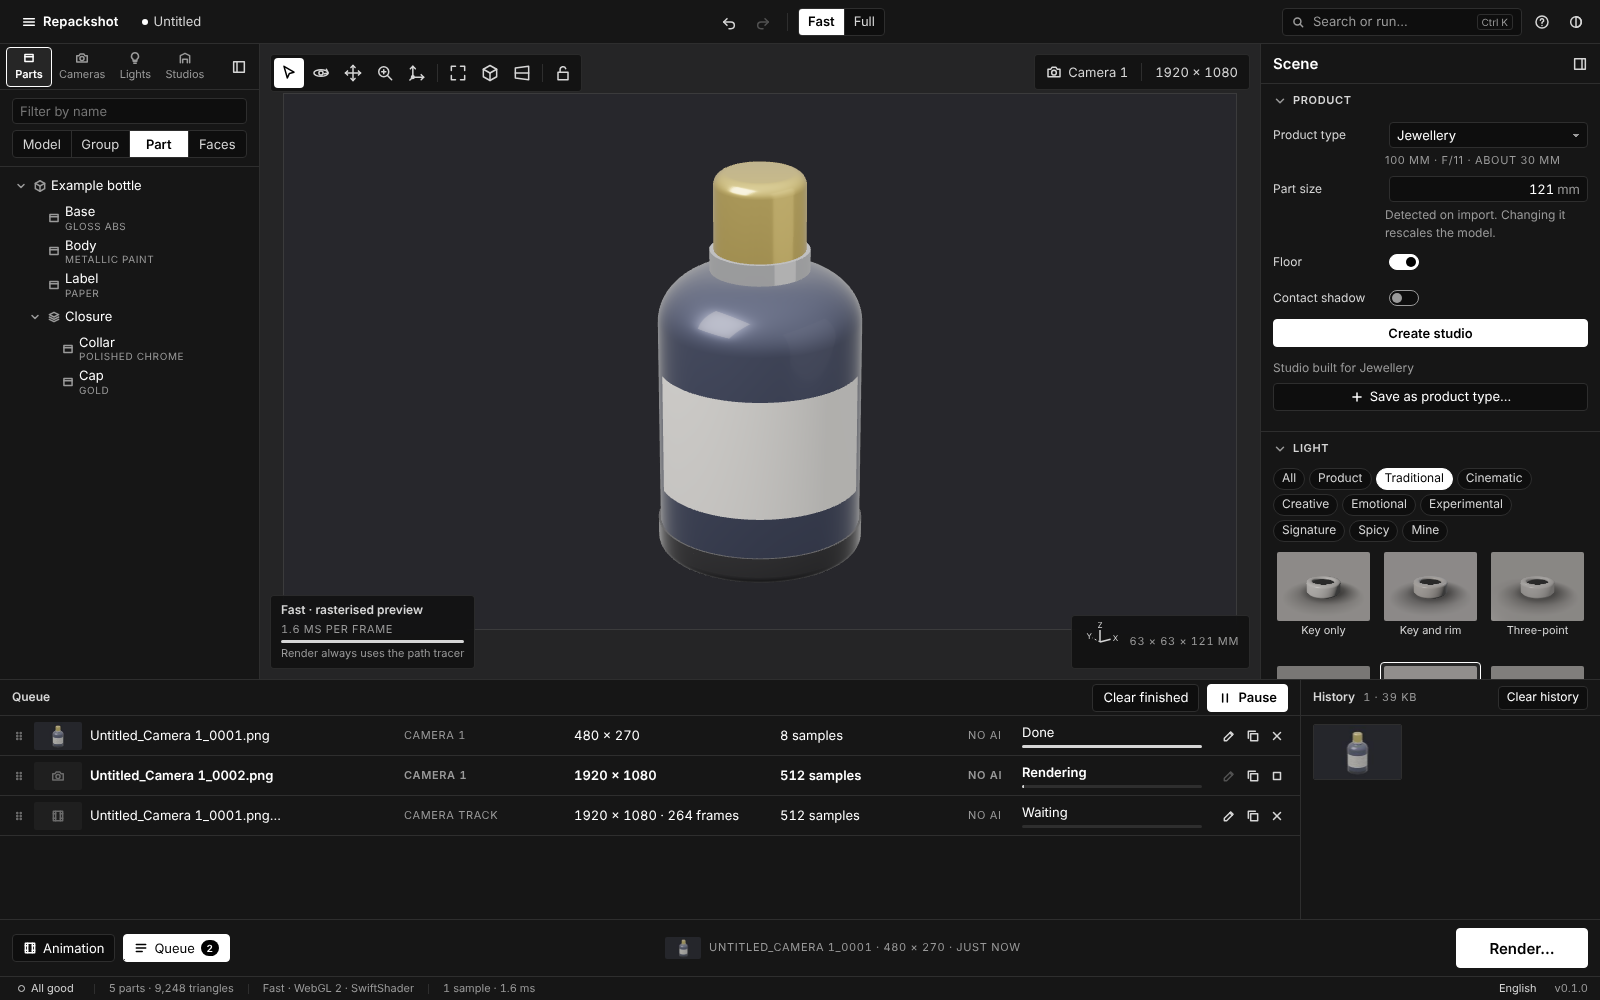
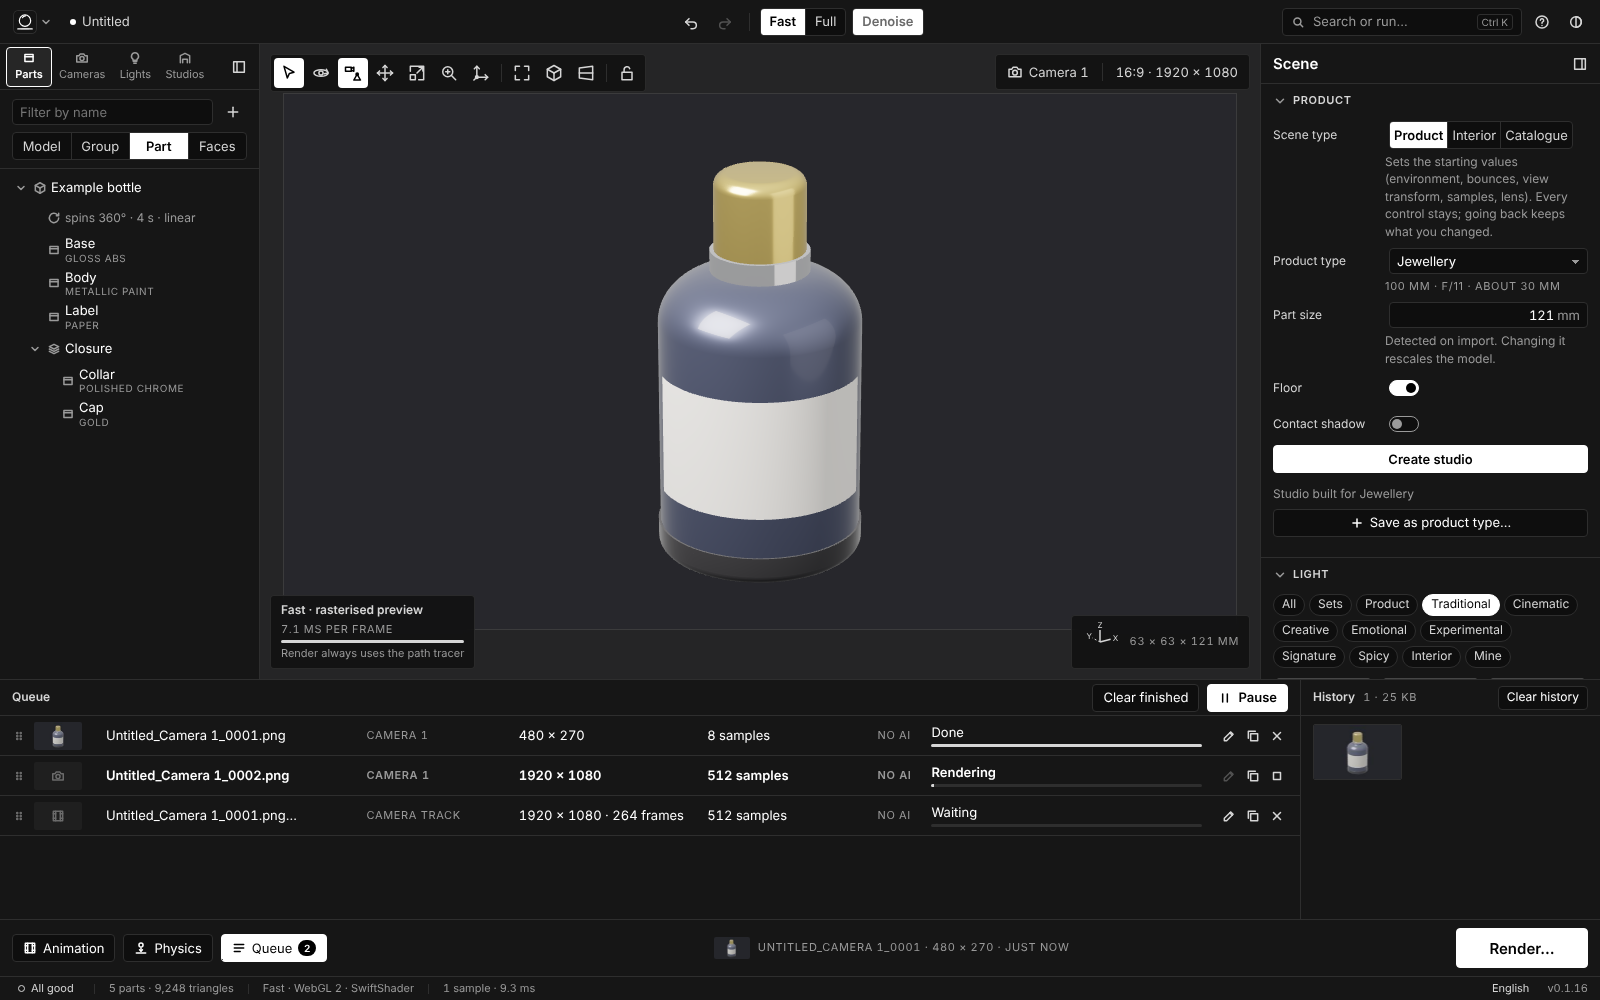
render-window-check: wait for the results viewer instead of racing it; re-record the U5 captures
Step (g) timed out in roughly one run in six, also on main before N1. The
tool pressed Esc right after the JPEG download started (and after the third
frame of the sequence), but the results viewer opens only when the job is
done. An Esc sent before that reached the scene and deselected the Body (Esc
deselects, UI.md 2.3), and the viewer opened anyway. In (g), Copper with
nothing selected asks "Replace all" inline in the palette, which is modal and
stays open, so Ctrl+Shift+Enter answered that prompt instead of rendering and
the wait for the second result ran out. The UI behaves as documented; the
tool's flow was racy.

The tool now waits for .rv[data-ready="1"] before closing the viewer (and for
it to go), checks that only the Body is selected, that the palette closed and
the Body shows Copper, and that Ctrl+Shift+Enter queued a job, so a failure
says why within seconds instead of after 240 s. Forcing the early Esc on the
old flow fails (g) every time; on the new flow it stops at the selection check.

Re-recorded with today's UI (they were still the U5 ones): render-window-
animation.png (Video is no longer "proximamente"), render-window-image.png,
queue-drawer.png and results-split.png. GALERIA marks them "regrabada en Sin
publicar" and corrects the two descriptions that changed; the N1 note in the
ROADMAP that called this a known failure says it is resolved; CHANGELOG gets a
Sin publicar section with one line under Herramientas.
[…]

diff --git a/docs/GALERIA.md b/docs/GALERIA.md
@@ -26,7 +26,7 @@ De la más nueva a la más antigua: 17 versiones, 14 con capturas nuevas; las ca
 
 ### Sin publicar
 
-Nada todavía: todas las capturas de `docs/ui/` están ya en una versión publicada (la última es v0.1.16).
+Ninguna captura nueva: todas las de `docs/ui/` están ya en una versión publicada (la última es v0.1.16). Regrabadas aquí, sin cambiar de sitio: las cuatro de la ventana de render y la cola de U5 (`render-window-image.png`, `render-window-animation.png`, `queue-drawer.png` y `results-split.png`), con la interfaz de hoy.
 
 ### v0.1.16 · 2026-10-17
 
@@ -507,17 +507,17 @@ La primera versión: interfaz, importadores, motor en Rust con modos Rápido y C
 
 #### U5 · Ventana de render y visor de resultados
 
-<a id="c-render-window-image"></a><img src="ui/render-window-image.png" width="480" alt="La ventana de Render, pestaña Imagen: nombre con plantilla, carpeta, formato (PNG, JPEG, EXR), tamaño en píxeles o en impresión y calidad por muestras."><br>
-`render-window-image.png` · `3ccbb2f` · La ventana de Render, pestaña Imagen: nombre con plantilla, carpeta, formato (PNG, JPEG, EXR), tamaño en píxeles o en impresión y calidad por muestras.
+<a id="c-render-window-image"></a><img src="ui/render-window-image.png" width="480" alt="La ventana de Render, pestaña Imagen: nombre con plantilla, carpeta, formato (PNG, JPEG, EXR, TIFF, RAW), tamaño en píxeles o en impresión y calidad por muestras."><br>
+`render-window-image.png` · `3ccbb2f` · La ventana de Render, pestaña Imagen: nombre con plantilla, carpeta, formato (PNG, JPEG, EXR, TIFF, RAW), tamaño en píxeles o en impresión y calidad por muestras. *(regrabada en Sin publicar)*
 
-<a id="c-render-window-animation"></a><img src="ui/render-window-animation.png" width="480" alt="La ventana de Render, pestaña Animación: rango, fotogramas por segundo, salida en secuencia de fotogramas (el vídeo, «próximamente») y tamaño de fotograma."><br>
-`render-window-animation.png` · `3ccbb2f` · La ventana de Render, pestaña Animación: rango, fotogramas por segundo, salida en secuencia de fotogramas (el vídeo, «próximamente») y tamaño de fotograma.
+<a id="c-render-window-animation"></a><img src="ui/render-window-animation.png" width="480" alt="La ventana de Render, pestaña Animación: rango, fotogramas por segundo, salida en vídeo o en secuencia de fotogramas (el vídeo ya no es «próximamente») y tamaño de fotograma."><br>
+`render-window-animation.png` · `3ccbb2f` · La ventana de Render, pestaña Animación: rango, fotogramas por segundo, salida en vídeo o en secuencia de fotogramas (el vídeo ya no es «próximamente») y tamaño de fotograma. *(regrabada en Sin publicar)*
 
 <a id="c-queue-drawer"></a><img src="ui/queue-drawer.png" width="480" alt="El cajón de la cola con tres trabajos (hecho, renderizando y en espera; uno es una pista de cámara) y el historial de resultados."><br>
-`queue-drawer.png` · `3ccbb2f` · El cajón de la cola con tres trabajos (hecho, renderizando y en espera; uno es una pista de cámara) y el historial de resultados.
+`queue-drawer.png` · `3ccbb2f` · El cajón de la cola con tres trabajos (hecho, renderizando y en espera; uno es una pista de cámara) y el historial de resultados. *(regrabada en Sin publicar)*
 
 <a id="c-results-split"></a><img src="ui/results-split.png" width="480" alt="El visor de resultados comparando dos renders con el divisor (cobre contra pintura metalizada), con zoom, datos y Guardar de nuevo."><br>
-`results-split.png` · `3ccbb2f` · El visor de resultados comparando dos renders con el divisor (cobre contra pintura metalizada), con zoom, datos y Guardar de nuevo.
+`results-split.png` · `3ccbb2f` · El visor de resultados comparando dos renders con el divisor (cobre contra pintura metalizada), con zoom, datos y Guardar de nuevo. *(regrabada en Sin publicar)*
 
 #### I2 · STEP e IGES
 

diff --git a/docs/ROADMAP.md b/docs/ROADMAP.md
@@ -6846,6 +6846,14 @@ ignoradas), como antes.
   no se toca aquí. Por eso `render-window-animation.png` (U5) no se ha regrabado y
   sigue enseñando el vídeo como *próximamente*; lo de ahora está en
   `render-window-video.png`.
+  *Resuelto después, fuera de esta fase*: el fallo era de la herramienta, no de la
+  interfaz. Cerraba el visor de resultados con Esc nada más empezar la descarga del
+  JPEG, antes de que el trabajo terminase y el visor abriera; ese Esc llegaba a la
+  escena y deseleccionaba el cuerpo (`Esc` deselecciona, UI §2.3), así que *Copper* pedía
+  *Sustituir todos* dentro de la paleta, que seguía abierta (es modal) y se tragaba
+  Ctrl+Mayús+Intro. Pasaba o no según el momento. La herramienta espera ahora al visor,
+  comprueba la selección y que la paleta se cierre, y `render-window-animation.png` y las
+  otras tres capturas de U5 se regrabaron.
 - **La regla de la línea de tiempo** no es un `slider`: está dentro del árbol, que
   solo puede contener sus filas, y el cabezal ya tiene el teclado (Inicio, Fin,
   ← →) desde el árbol; se oculta a las ayudas técnicas. Si se quiere un control

diff --git a/docs/CHANGELOG.md b/docs/CHANGELOG.md
@@ -3,6 +3,12 @@
 Cada versión lista lo que trae, agrupado por áreas. Entre paréntesis, la
 fase del roadmap (`ROADMAP.md`) de donde sale cada línea.
 
+## Sin publicar
+
+### Herramientas
+
+- `tools/render-window-check.mjs` ya no se agota en su paso (g): cerraba el visor de resultados con una pausa fija, y un Esc que llegaba antes de que el visor abriera deseleccionaba el cuerpo; *Copper* pedía entonces *Sustituir todos* dentro de la paleta, que seguía abierta y se tragaba Ctrl+Mayús+Intro. Ahora espera al visor antes de cerrarlo, comprueba la selección y que la paleta se cierre, y si algo falla lo dice en segundos; las cuatro capturas de U5 se regrabaron con la interfaz de hoy, `render-window-animation.png` con el vídeo ya disponible.
+
 ## v0.1.16 — 2026-10-17
 
 ### Accesibilidad
